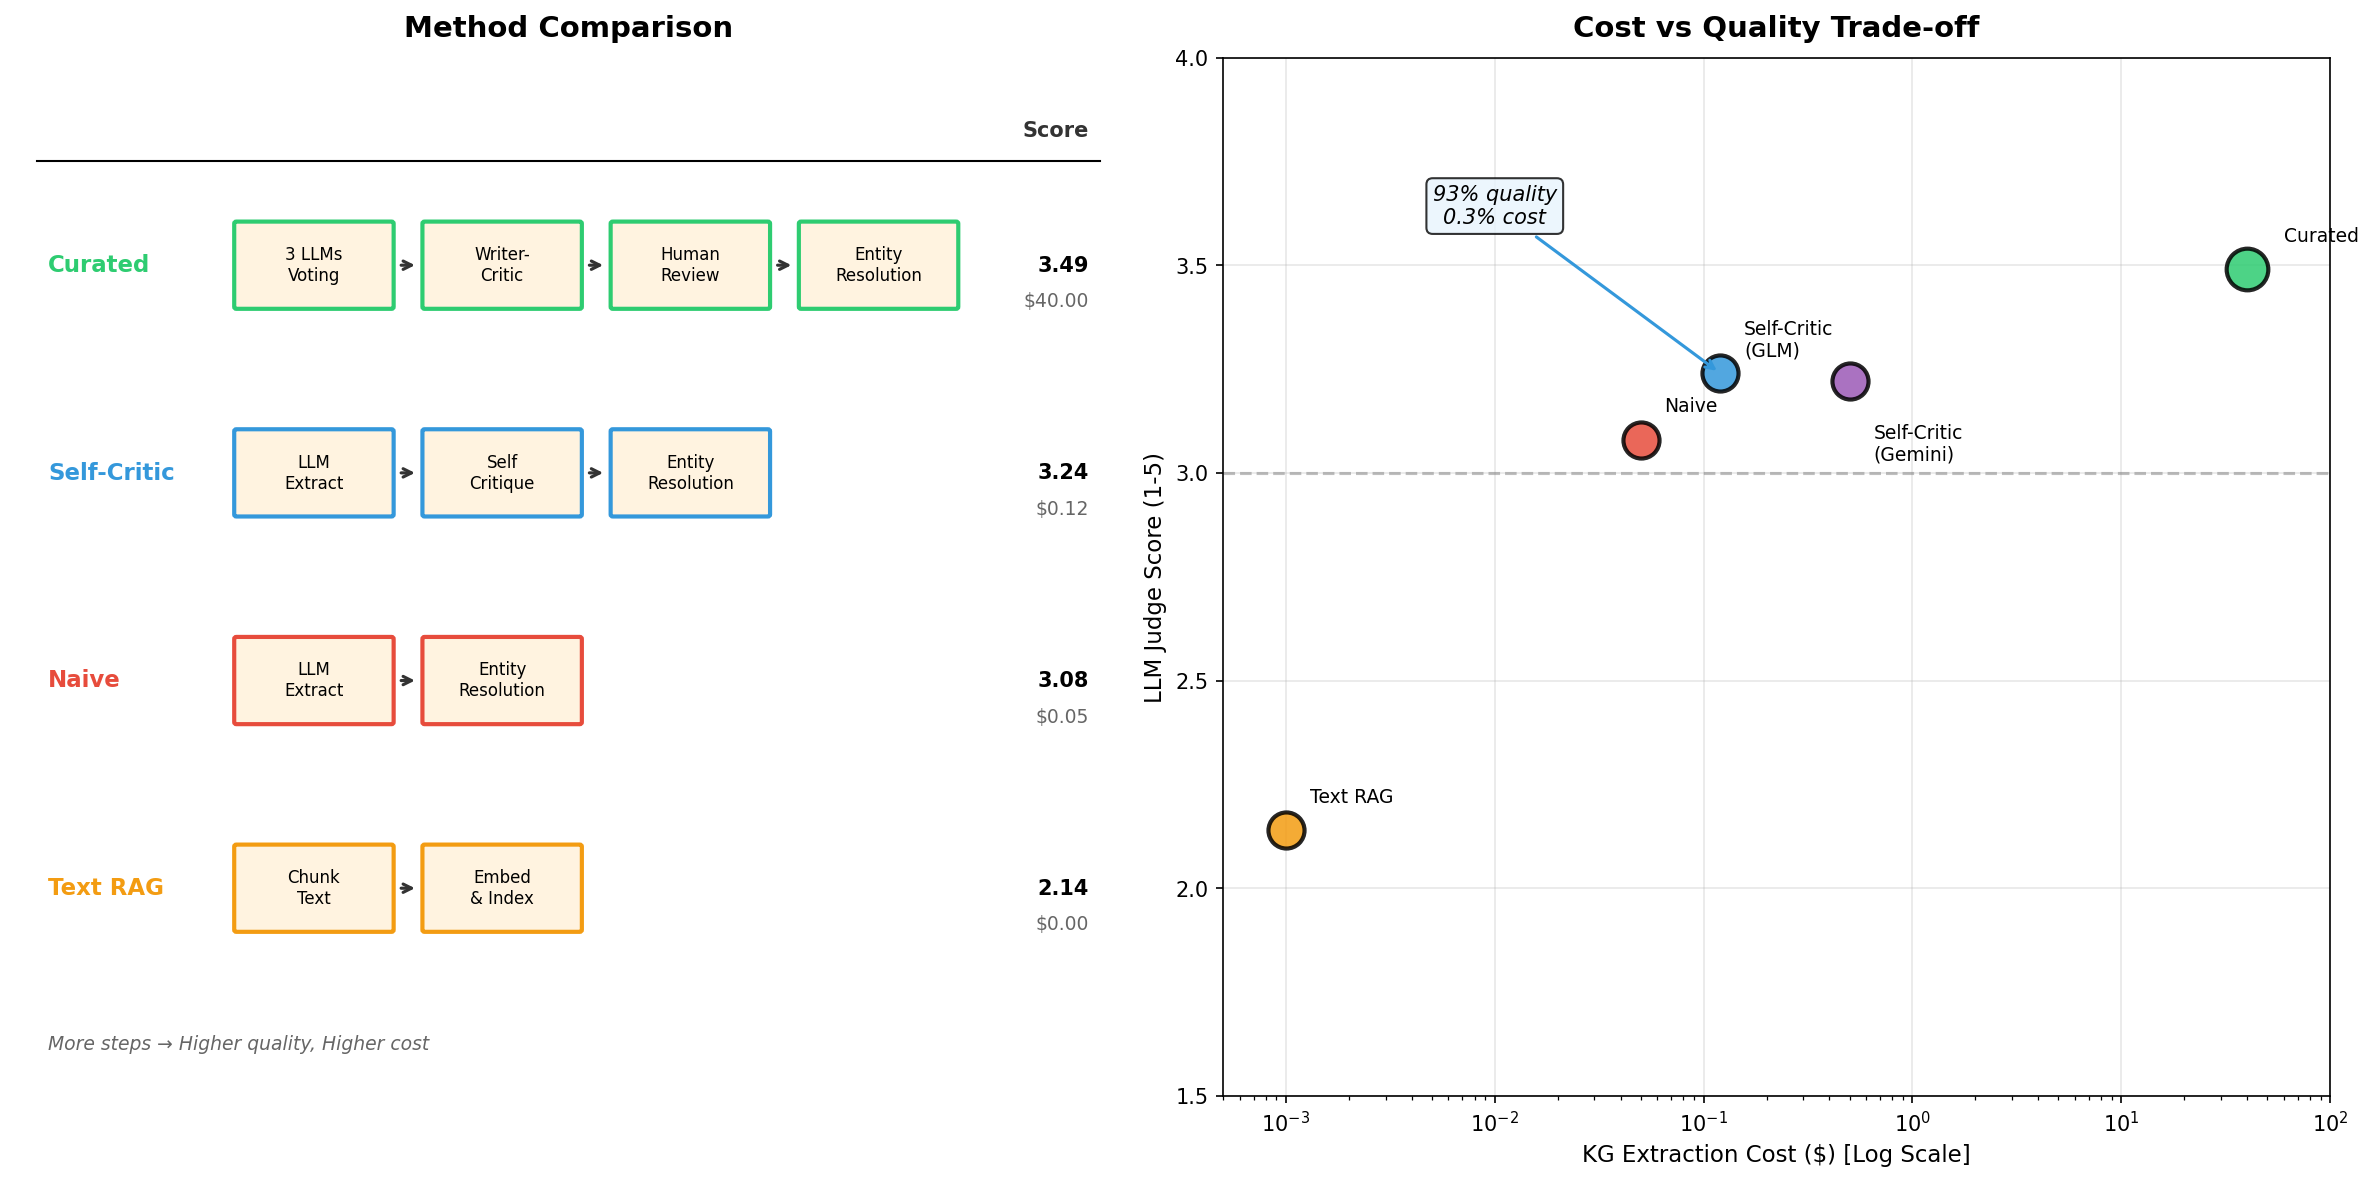
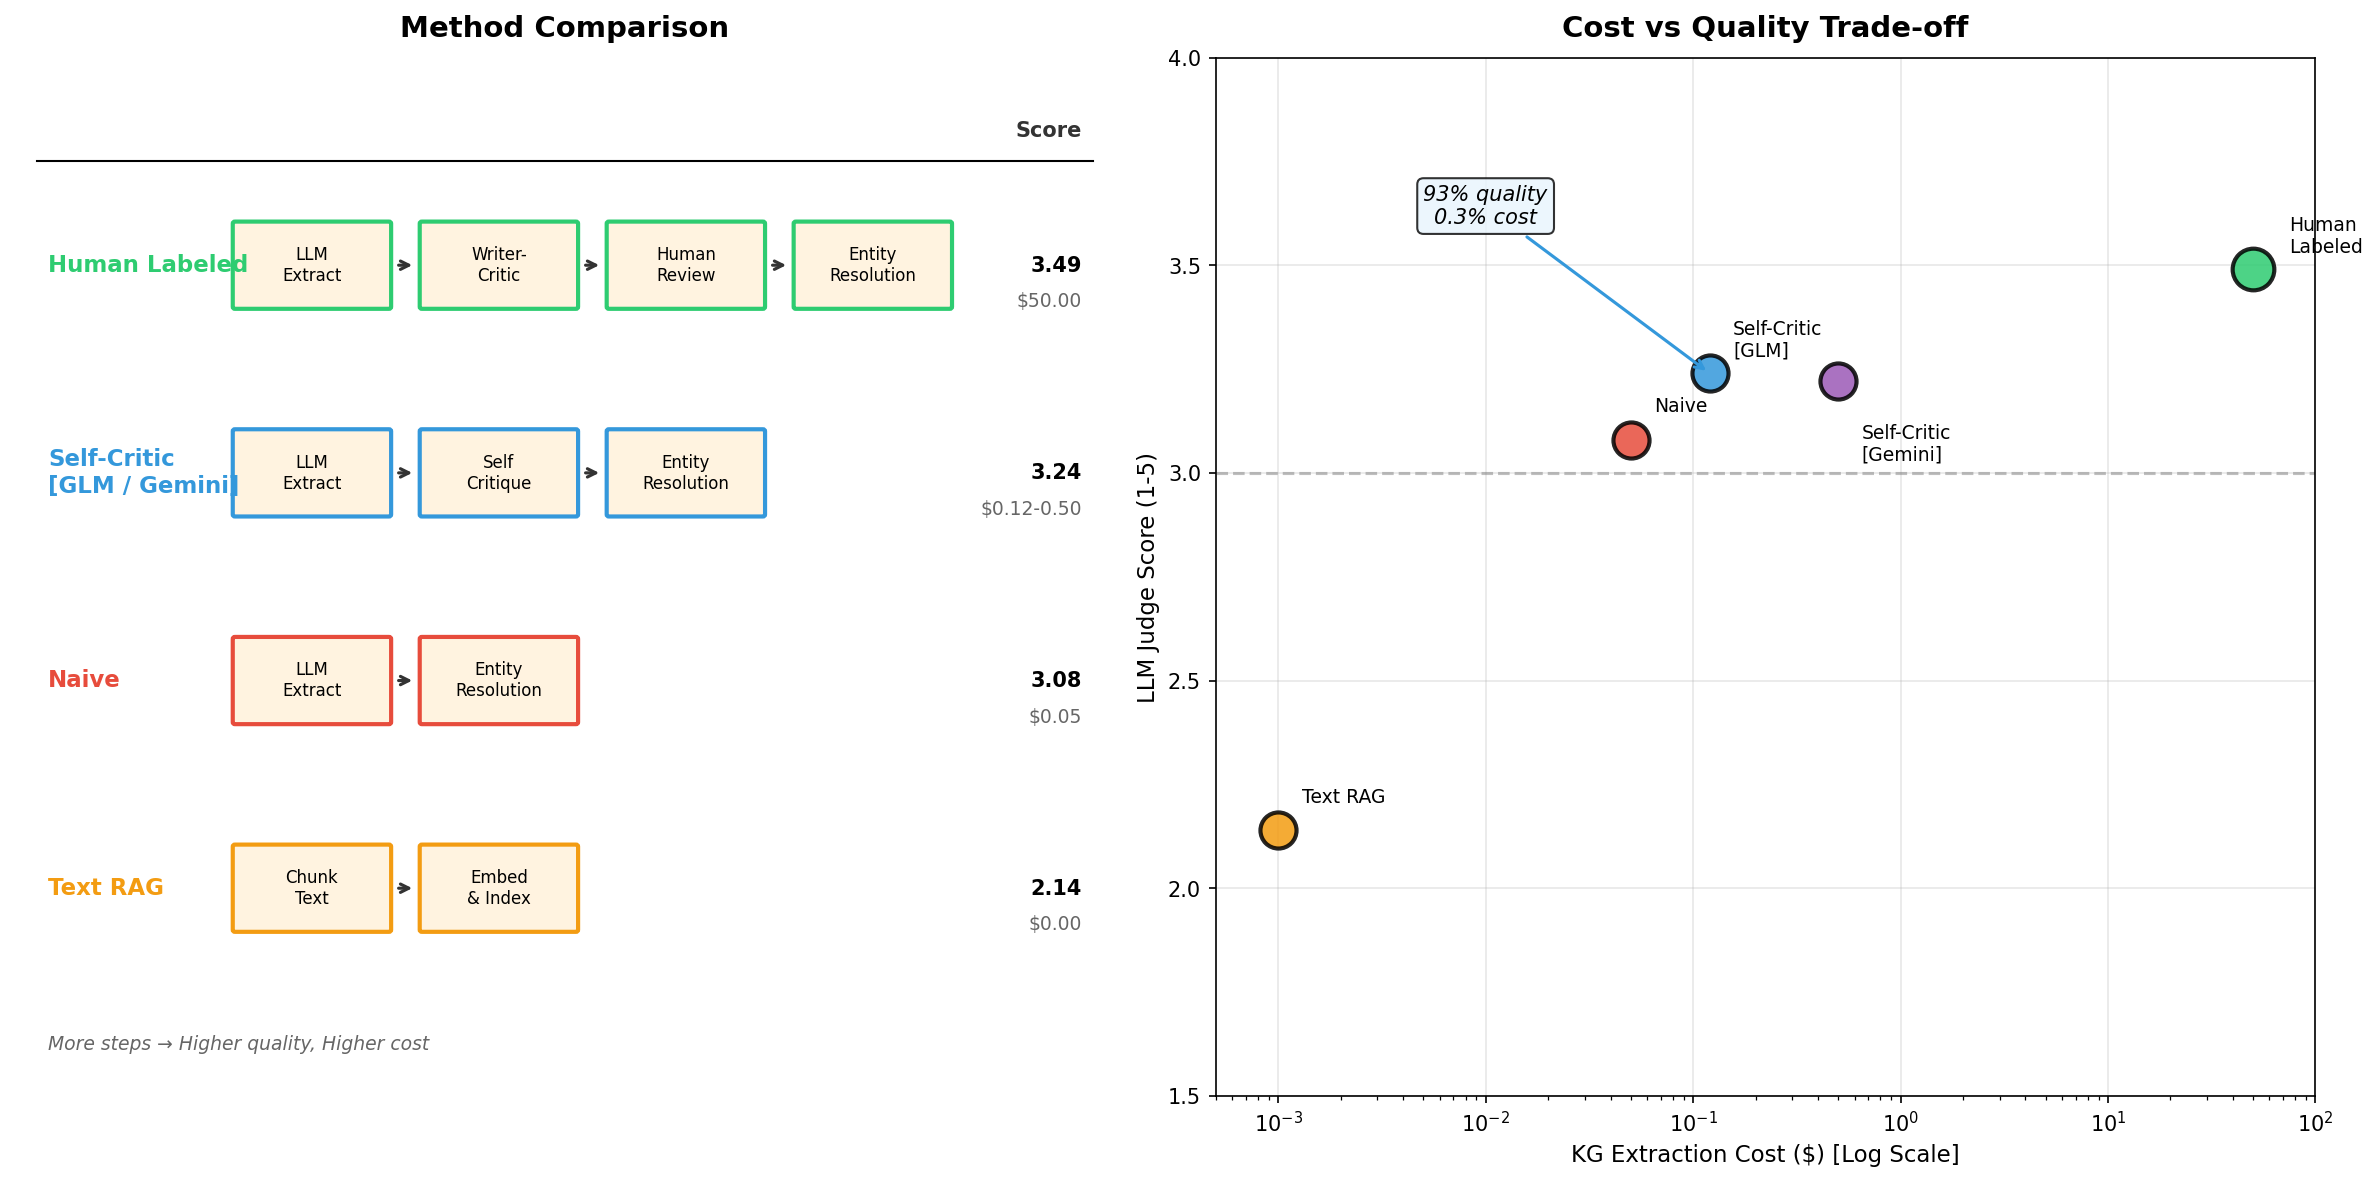
Update methods comparison: Human Labeled, $50, GLM/Gemini variants
- Rename Curated → Human Labeled
- Update cost to $50
- Add Self-Critic [GLM/Gemini] with both variants shown

diff --git a/README.md b/README.md
@@ -36,8 +36,8 @@ Your task: Design an agentic orchestration pipeline that extracts high-quality K
 
 | Method | Pipeline | Score | Cost |
 |--------|----------|-------|------|
-| **Curated** | 3 LLMs voting → Writer-Critic → Human review | 3.49 | $40 |
-| **Self-Critic** | LLM extract → Self critique → Merge | 3.24 | $0.12 |
+| **Human Labeled** | LLM extract → Writer-Critic → Human review | 3.49 | $50 |
+| **Self-Critic [GLM/Gemini]** | LLM extract → Self critique → Merge | 3.24 / 3.22 | $0.12 / $0.50 |
 | **Naive** | LLM extract → Merge | 3.08 | $0.05 |
 | **Text RAG** | Chunk & embed (no KG) | 2.14 | $0 |
 
